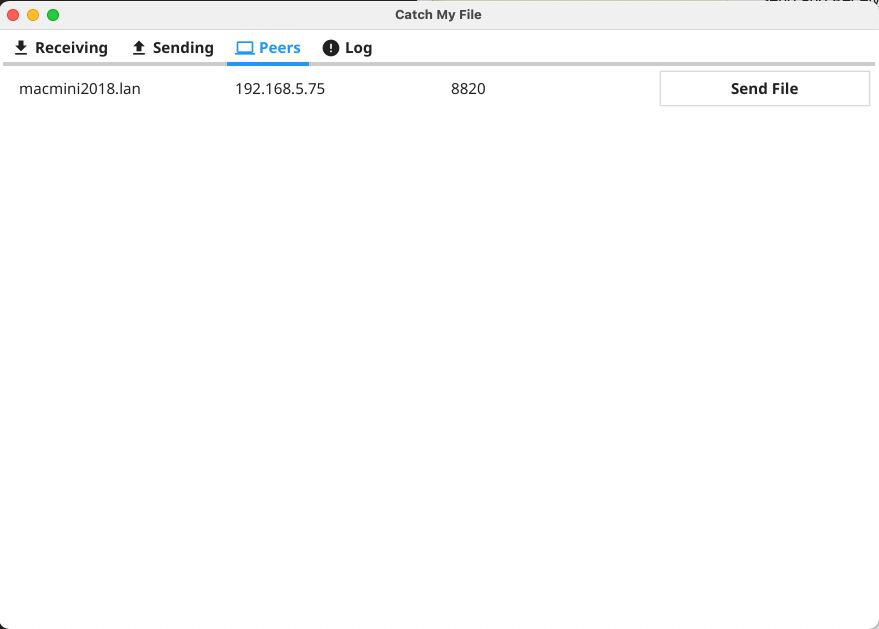
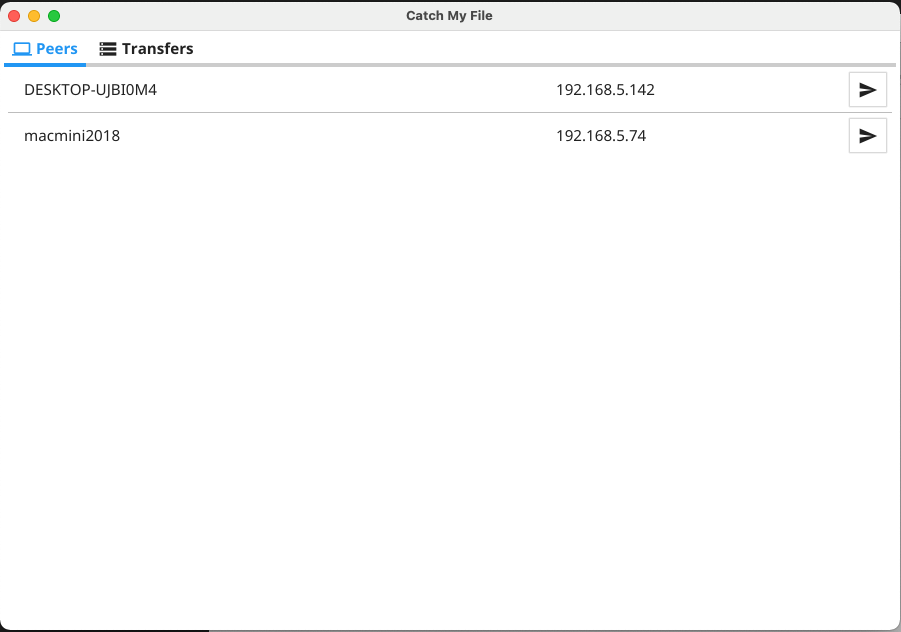
doc: update documentation and makefile.

diff --git a/README.md b/README.md
@@ -2,7 +2,7 @@
 
 # Catch My File
 
-Catch My File lets you easily send and receive files between the peers on the local network.
+Catch My File lets you easily send and receive files between peers on the local network.
 
 ## Why?
 
@@ -18,27 +18,27 @@ I wanted a tool that allows to:
 - Discover other peers on the local network without any configuration
 - Send specific files to specific peers
 - Accept or reject files sent by other peers
+- Follow the transfer progress
 - Checksum (SHA256) verification of the file when transfer is completed
-- Log display for relevant messages
 
 ## Installation
 
 - Download the required package from the releases page
 - Extract the package and run the application
 - MacOS
-    - Copy the application to the applications folder
+    - Copy the application to the applications folder or just run it directly
     - On the frist run need to allow the app to run and make network connections
 - Linux 
     - Run the command `sudo make install` to install the application
     - Run the command `sudo make uninstall` to remove the application
 - Windows
-    - *TODO*
+    - Just run the executable
 
 ## Usage
 
 ### Peers Panel
 
-This panel will show all the other peers using the application on the local network. Pressing **Send File** we can select a file from the filesystem and send it to that peer.
+This panel will show all the other peers using the application on the local network. Pressing send button we can select a file from the filesystem and send it to that peer.
 
 ![peers-view](assets/screenshots/peers-view.png)
 
@@ -49,21 +49,11 @@ After the file is selected a checksum(SHA256) is generated and a file transfer r
 ![prepar-for-sending](assets/screenshots/prepar-for-sending.png)
 
 
-### Sending Panel
+### Transfers Panel
 
-After the request is send a record is added to the Sending tab where we can follow the progress.
+After the request is send a record is added to the Transfers tab where the sender can follow the progress.
 
-![sender-view](assets/screenshots/sender-view.png)
-
-### Receiver
-
-When a peer receives a request to accept a file, a modal is shown showing that information.
-
-![transfer-request-received](assets/screenshots/transfer-request-received.png)
-
-### Receiving Panel
-
-After a request is received we can **Accept** or **Reject** it, if rejected nothing will be transferred.
+At the same time on the receiver side a similar record is added with the options to **Accept** or **Reject** the transfer, if rejected nothing will be transferred.
 
 ![receiver-view](assets/screenshots/receiver-view.png)
 
@@ -74,6 +64,14 @@ When accepted we select where on the filesystem the file will be stored and the 
 The sender can also see the progress.
 
 ![sending](assets/screenshots/sending.png)
+
+Once the transfer is completed on the sender side, the receiver will start the verification to insure the file integrity.
+
+![verifying](assets/screenshots/verifying.png)
+
+When the verification is completed with success the transfer will be completed.
+
+![completed](assets/screenshots/completed.png)
 
 
 ## Built With
